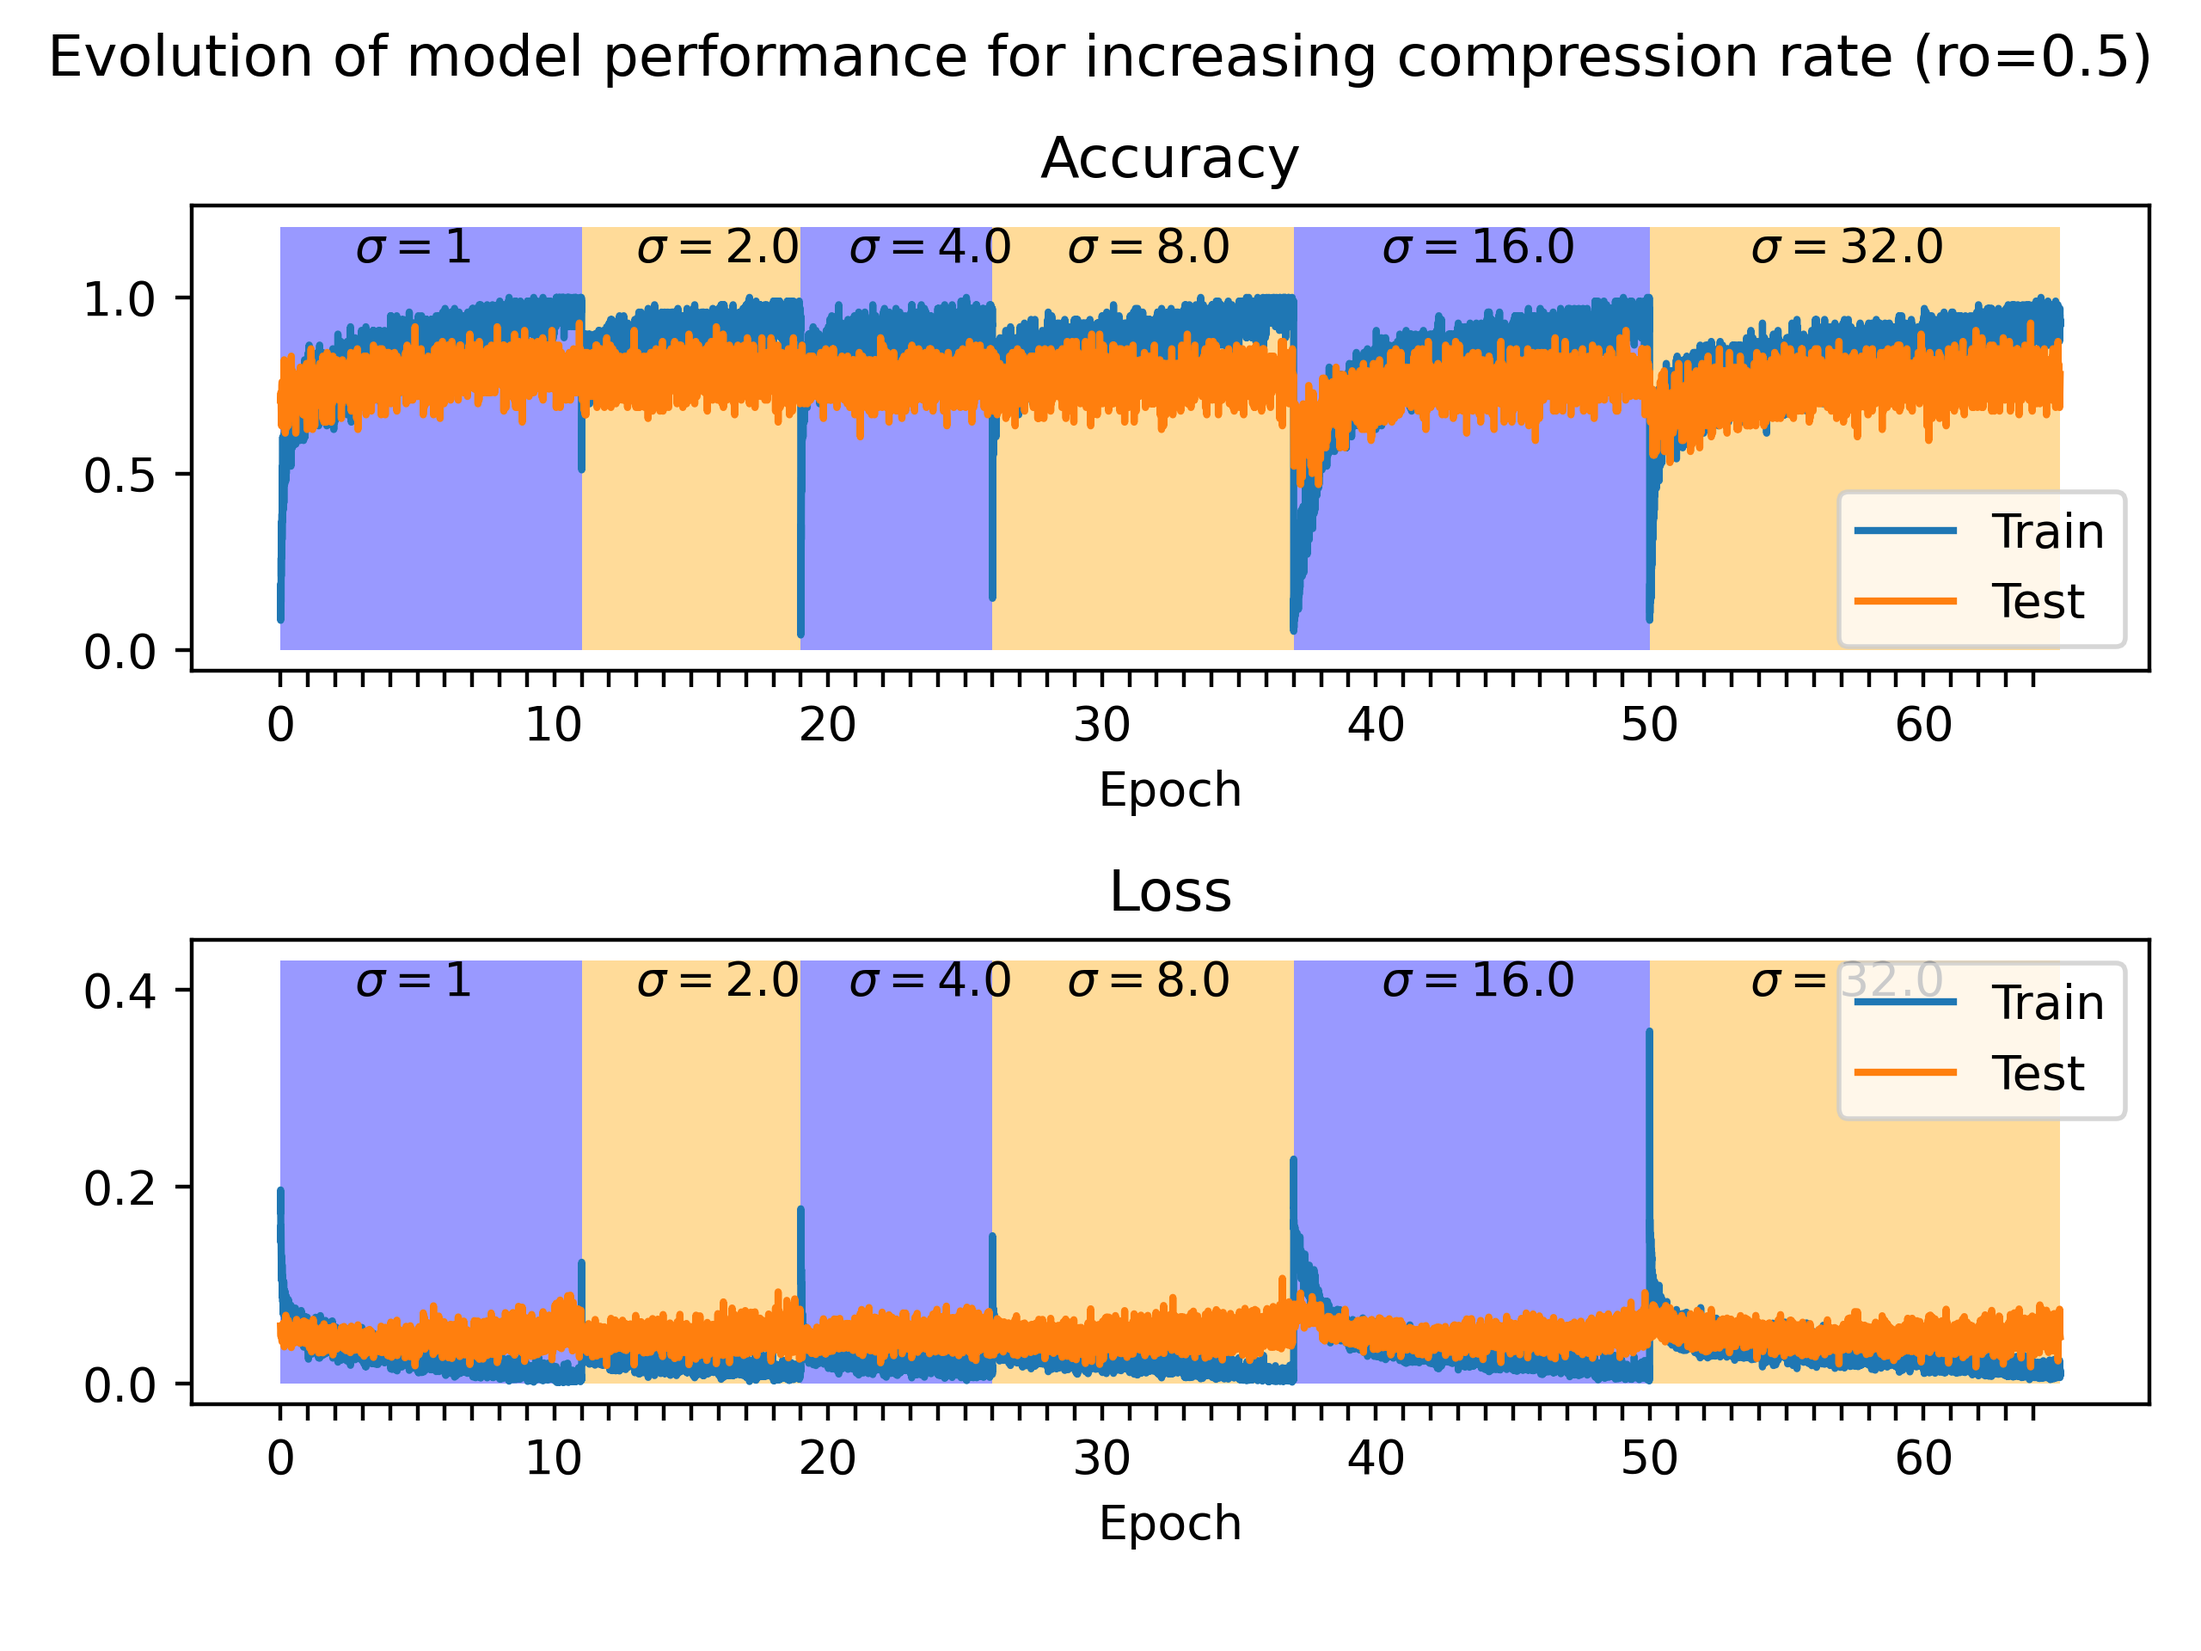
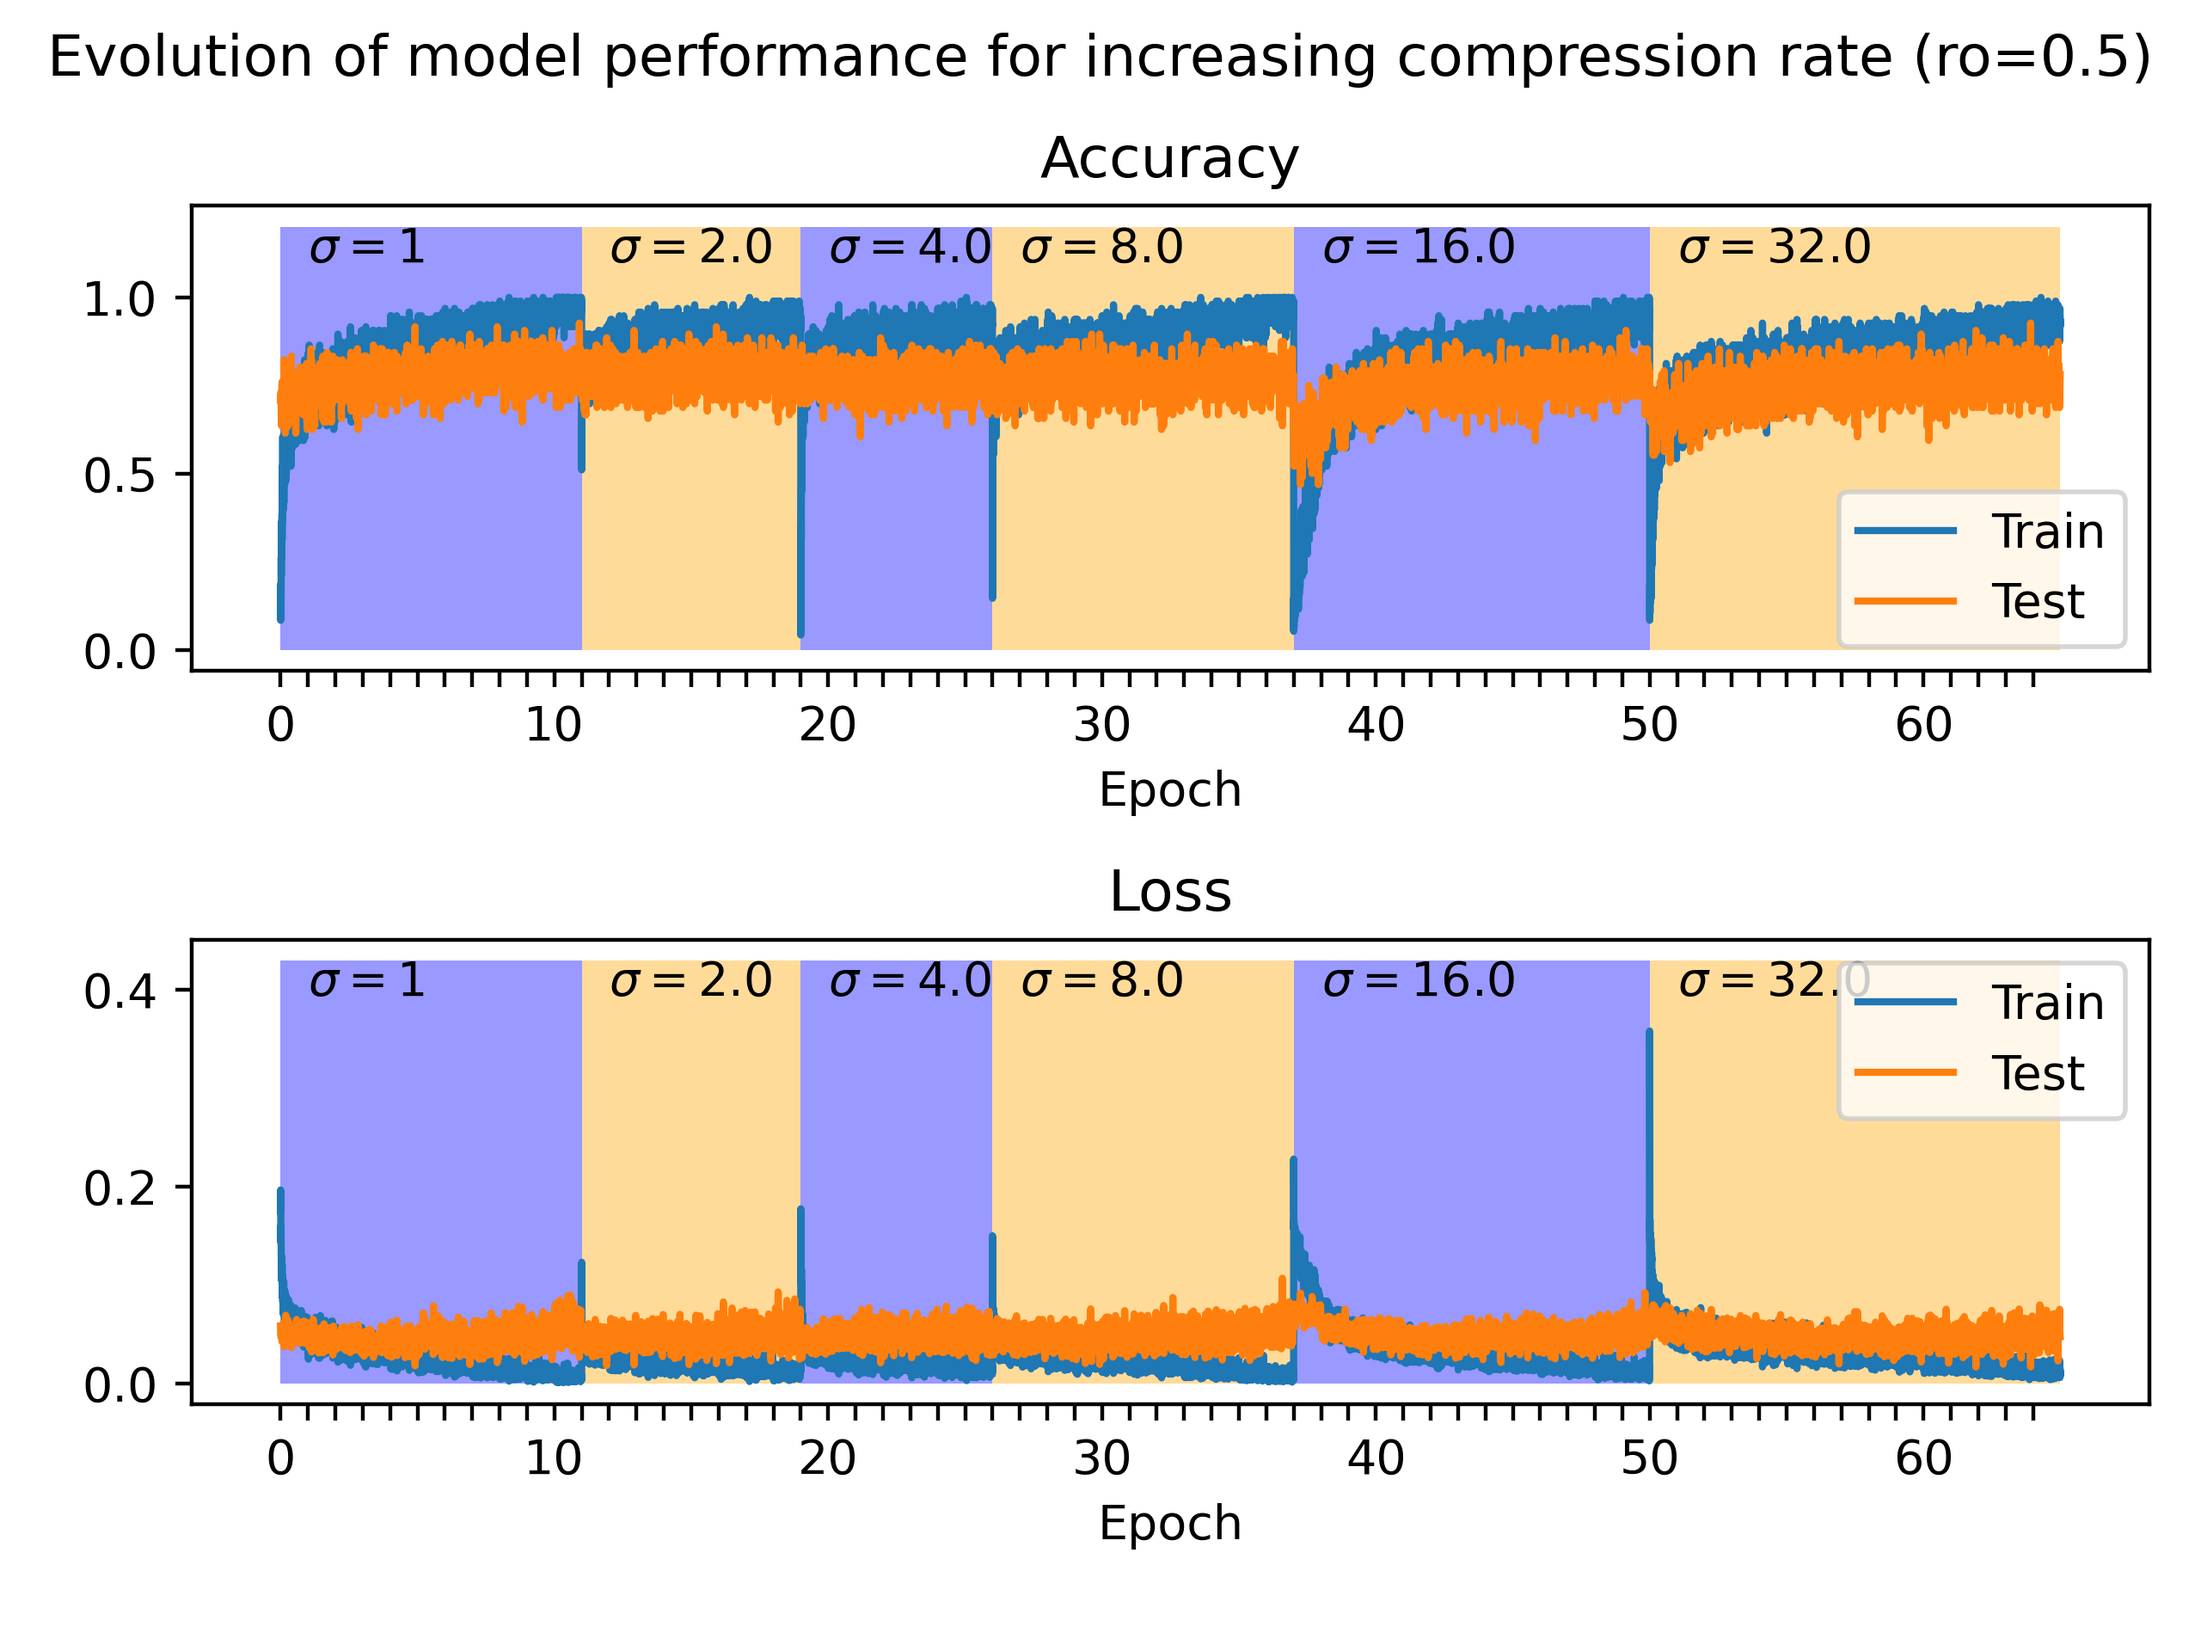
enum

diff --git a/src/viz.py b/src/viz.py
@@ -33,7 +33,7 @@ def visualize_loss_acc(opt, allLosses, allAccs, epochLengths, compRates = None):
 			ax.add_patch(rect)
 
 			if compRates is not None:
-				ax.text(xPrev +1,(1.1 if axIndex == 0 else maxLoss*1.1), s = r"$\sigma=$"+str(compRates[compRateIndex]))
+				ax.text(xPrev +0.7,(1.1 if axIndex == 0 else maxLoss*1.1), s = r"$\sigma=$"+str(int(compRates[compRateIndex])))
 
 		xPrev += compressionSizeLen
 		trainAcc.extend(allAccs[compRateIndex]["train"])
@@ -57,7 +57,7 @@ def visualize_loss_acc(opt, allLosses, allAccs, epochLengths, compRates = None):
 		ax.set_xlabel("Epoch")
 
 	fig.tight_layout(rect=[0, 0.03, 1, 0.95])
-	plt.suptitle("Evolution of model performance for increasing compression rate (ro="+str(opt.ro)+")")
+	plt.suptitle("Evolution of model performance on " + opt.dsName + " for increasing compression rate (ro="+str(opt.ro)+")")
 
 	saveFig(opt, "accLossThroughEpochs");
 
